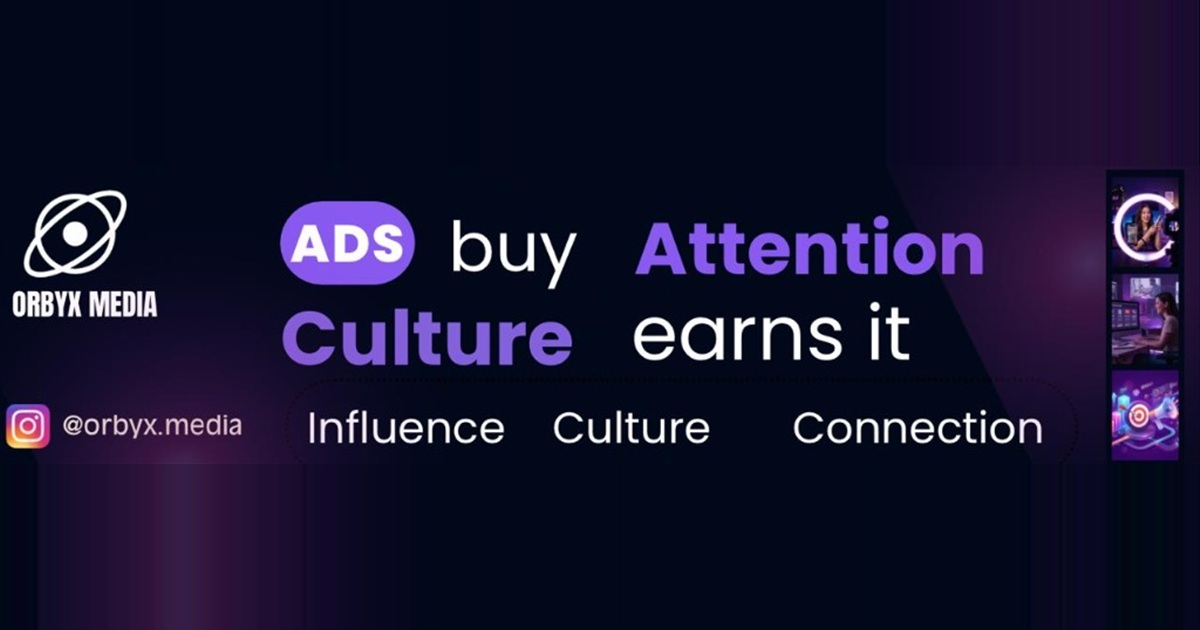
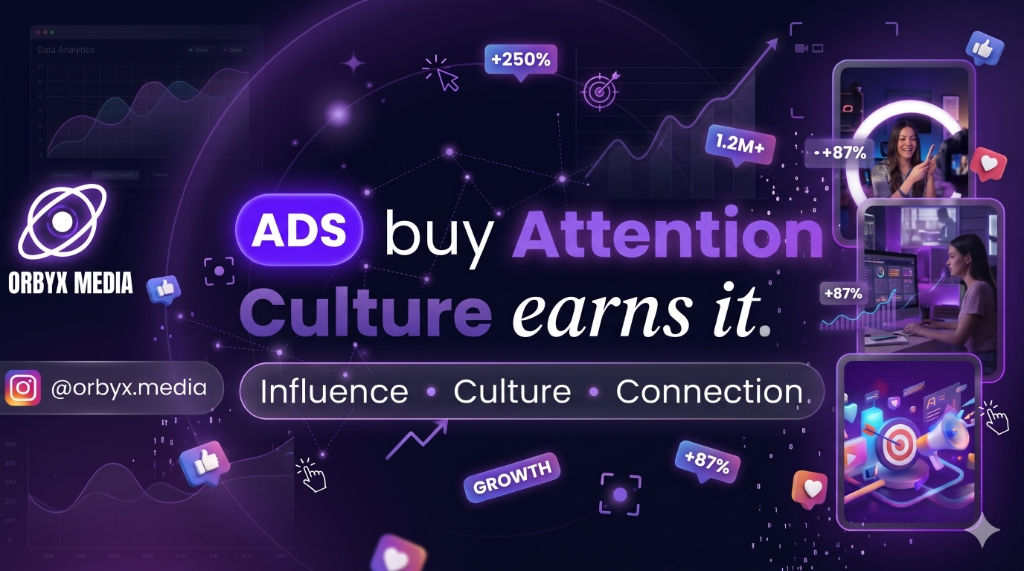
SEO: update og-image to new branded visual and remove obsolete PNG

diff --git a/index.html b/index.html
@@ -34,8 +34,8 @@
   <meta property="og:image" content="https://www.orbyxmedia.in/og-image.jpg">
   <meta property="og:image:secure_url" content="https://www.orbyxmedia.in/og-image.jpg">
   <meta property="og:image:type" content="image/jpeg">
-  <meta property="og:image:width" content="1200">
-  <meta property="og:image:height" content="630">
+  <meta property="og:image:width" content="1024">
+  <meta property="og:image:height" content="571">
   <meta property="og:image:alt" content="Orbyx Media - Ads buy Attention, Culture earns it">
 
   <!-- Twitter -->
@@ -74,8 +74,8 @@
         "primaryImageOfPage": {
           "@type": "ImageObject",
           "url": "https://www.orbyxmedia.in/og-image.jpg",
-          "width": 1200,
-          "height": 630
+          "width": 1024,
+          "height": 571
         }
       },
       {

diff --git a/creators.html b/creators.html
@@ -32,8 +32,8 @@
   <meta property="og:description"
     content="Hand-picked voices across every niche. Real reach, authentic engagement, and proven brand lift.">
   <meta property="og:image" content="https://www.orbyxmedia.in/og-image.jpg">
-  <meta property="og:image:width" content="1200">
-  <meta property="og:image:height" content="630">
+  <meta property="og:image:width" content="1024">
+  <meta property="og:image:height" content="571">
 
   <!-- Twitter -->
   <meta name="twitter:card" content="summary_large_image">
